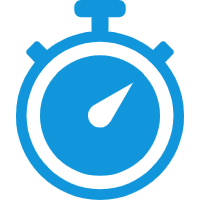
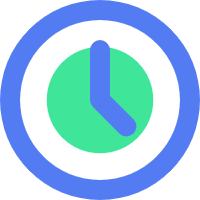
update 更新图标

diff --git a/src/main.js b/src/main.js
@@ -1,6 +1,7 @@
-const { app, ipcMain } = require('electron');
+const { app, ipcMain, Tray, Menu } = require('electron');
+const path = require('path');
 const { settingDB, itemDB } = require('./lib/database')
-const common = require('./lib/common');
+const Common = require('./lib/common.js');
 global = require('./lib/global');
 
 const LoadWindow = require('./windows/controllers/loadWindow.js')
@@ -13,6 +14,7 @@ class App {
         this.loadWindow = null;
         this.listWindow = null;
         this.itemWindows = new Array();
+        this.tray = null;
     }
 
     init() {
@@ -30,11 +32,13 @@ class App {
 
     initApp() {
         app.on('ready', () => {
+            this.createTray();
             this.createLoadWindow();
         });
         app.on('window-all-closed', () => {
             if (process.platform !== 'darwin') {
-                app.quit()
+                return false;
+                // app.quit()
             }
         });
     }
@@ -132,12 +136,12 @@ class App {
 
         // 在list页面切换setting页面
         ipcMain.on('show-setting', () => {
-            this.listWindow.loadURL(common.WINDOW_URL.setting);
+            this.listWindow.loadURL(Common.WINDOW_URL.setting);
         });
 
         // 切换回list页面
         ipcMain.on('back', () => {
-            this.listWindow.loadURL(common.WINDOW_URL.list);
+            this.listWindow.loadURL(Common.WINDOW_URL.list);
         });
 
         // 设置项改变
@@ -154,7 +158,7 @@ class App {
                     openAtLogin: false,
                 });
             }
-            
+
         });
 
         ipcMain.on('sync-items', event => {
@@ -162,6 +166,29 @@ class App {
                 this.listWindow.webContents.send('sync-items', global.items);
             }
         })
+    }
+
+    createTray() {
+        this.tray = new Tray(path.join(__dirname, '../assets/icon.png'));
+        const contextMenu = Menu.buildFromTemplate([
+            {
+                label: '显示列表',
+                type: 'normal',
+                click: () => {
+                    this.createListWindow();
+                },
+            },
+            { label: '退出程序', type: 'normal', role: 'quit' }
+        ])
+        this.tray.setToolTip('This is my application.')
+        this.tray.setContextMenu(contextMenu)
+        this.tray.on('click', () => {
+            if (this.listWindow) {
+                this.listWindow.close();
+            } else {
+                this.createListWindow();
+            }
+        });
     }
 
     createLoadWindow() {
@@ -176,6 +203,10 @@ class App {
     }
 
     createListWindow() {
+        if (this.listWindow) {
+            this.listWindow.focus();
+            return;
+        }
         this.listWindow = new ListWindow();
         this.listWindow.once('ready-to-show', () => {
             this.listWindow.show();

diff --git a/src/windows/controllers/itemWindow.js b/src/windows/controllers/itemWindow.js
@@ -1,7 +1,7 @@
-const path = require('path')
-const { BrowserWindow } = require('electron')
-const Common = require('../../lib/common')
-const { settingDB, itemDB } = require('../../lib/database')
+const path = require('path');
+const { BrowserWindow } = require('electron');
+const Common = require('../../lib/common');
+const { settingDB, itemDB } = require('../../lib/database');
 
 class ItemWindow extends BrowserWindow {
     constructor(item) {
@@ -26,25 +26,6 @@ class ItemWindow extends BrowserWindow {
         this.setMenu(null);
         this.loadURL(Common.WINDOW_URL.item);
         if (Common.DEBUG_MODE) this.webContents.openDevTools();
-    }
-
-    saveItem() {
-        // 数据查找
-        let flag = itemDB.get('items')
-            .find({ id: this.item.id })
-            .value();
-
-        // 查到更新，查不到插入
-        if (flag) {
-            itemDB.get('items')
-                .find({ id: this.item.id })
-                .assign(this.item)
-                .write();
-        } else if (this.item.content) {
-            itemDB.get('items')
-                .push(this.item)
-                .write();
-        }
     }
 }
 
